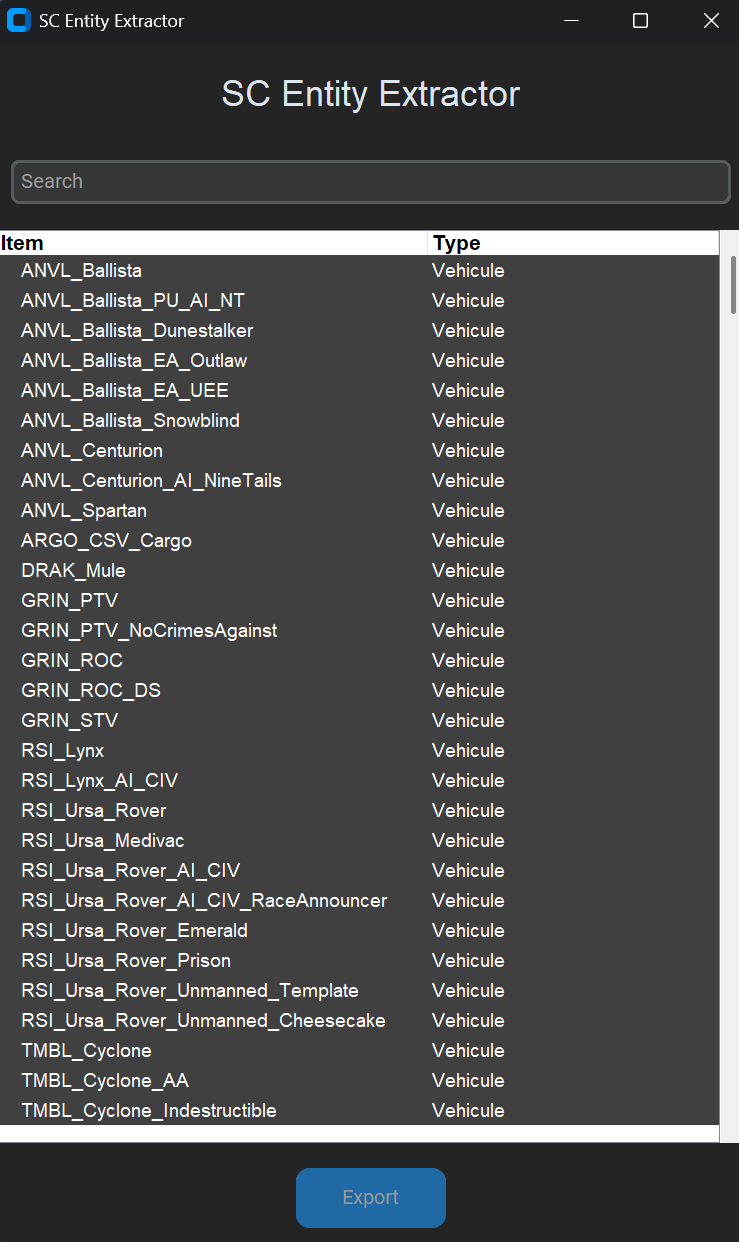
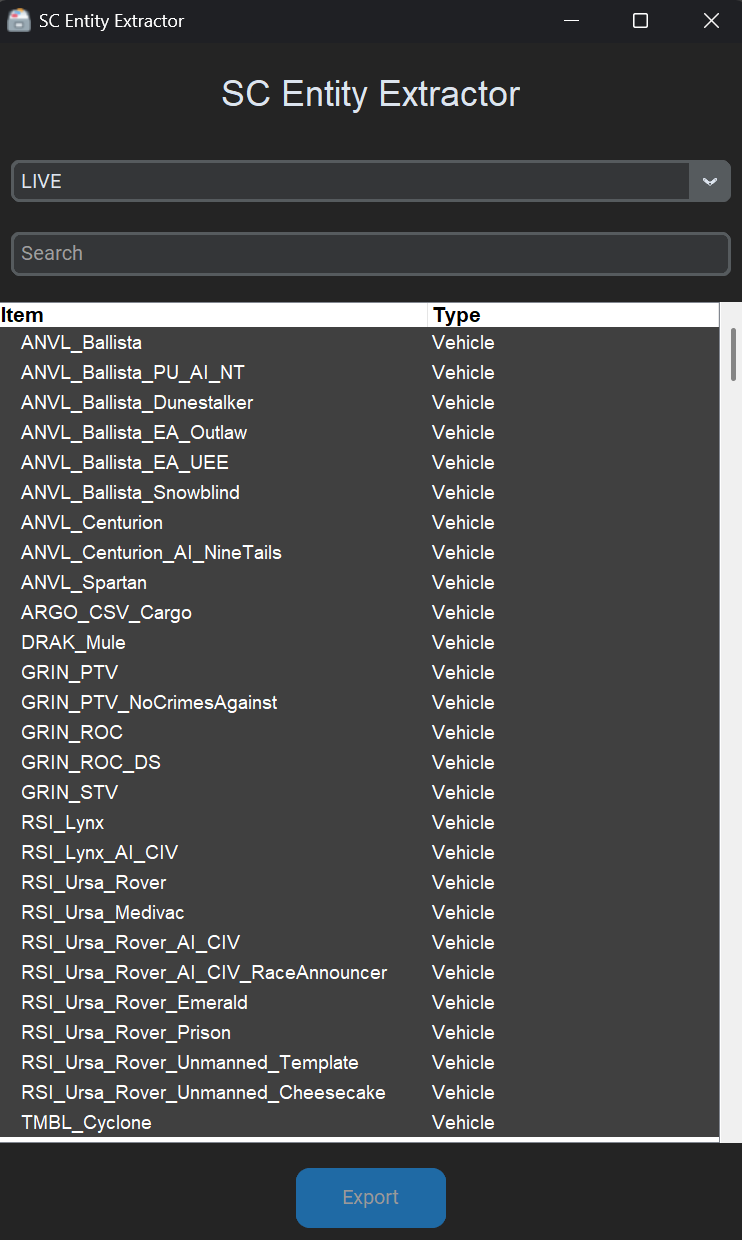
Add versions switcher

diff --git a/src/gui.py b/src/gui.py
@@ -1,9 +1,13 @@
 import threading
 import os
 import sys
+import subprocess
+from pathlib import Path
+
 import customtkinter as ctk
 import tkinter as tk
 from tkinter import ttk, messagebox
+
 from exporter import Exporter
 from config import Config
 
@@ -12,6 +16,8 @@ class SCEntityExtractorApp:
         self.config = config
         self.exporter = Exporter(config)
         self.selected_item_data = None
+
+        self.install_path = Path(self.config.SC_INSTALL_PATH)
 
         # Initialize GUI
         self.root = ctk.CTk()
@@ -35,6 +41,9 @@ class SCEntityExtractorApp:
         title_label = ctk.CTkLabel(self.root, text="SC Entity Extractor", font=("Helvetica", 24))
         title_label.pack(pady=20)
 
+        # SC Versions selector
+        self._setup_versions()
+
         # Search Textbox
         self.search_entry = ctk.CTkEntry(self.root, placeholder_text="Search", height=30)
         self.search_entry.pack(padx=10, pady=10, fill="x")
@@ -51,6 +60,30 @@ class SCEntityExtractorApp:
         # Progress Bar and Label
         self.export_label = ctk.CTkLabel(self.root, text="Exporting...", font=("Helvetica", 12))
         self.progressbar = ctk.CTkProgressBar(self.root, mode="indeterminate")
+
+    def _setup_versions(self):
+        parent_path = self.install_path.parent
+        
+        versions = []
+        for dir in os.listdir(parent_path):
+            versions.append(dir)
+        
+        version_select = ctk.CTkComboBox(self.root, values=versions, command=self.change_version)
+        version_select.pack(pady=10, padx=10, fill="x")
+        version_select.set(self.install_path.name)
+        version_select.configure(state="disabled" if len(versions) <= 1 else "readonly")
+
+    def change_version(self, version):
+        if version != self.install_path.name:
+            new_version_path = Path(self.install_path.parent / version)
+            self.config.SC_INSTALL_PATH = str(new_version_path)
+            self.config.save()
+
+            messagebox.showinfo("Changing Version", "The app will restart to load the new version.")
+            
+            # Restart the application
+            subprocess.Popen([sys.executable], env={**os.environ, "PYINSTALLER_RESET_ENVIRONMENT": "1"})
+            sys.exit(0)
 
     def _setup_treeview(self):
         style = ttk.Style()
